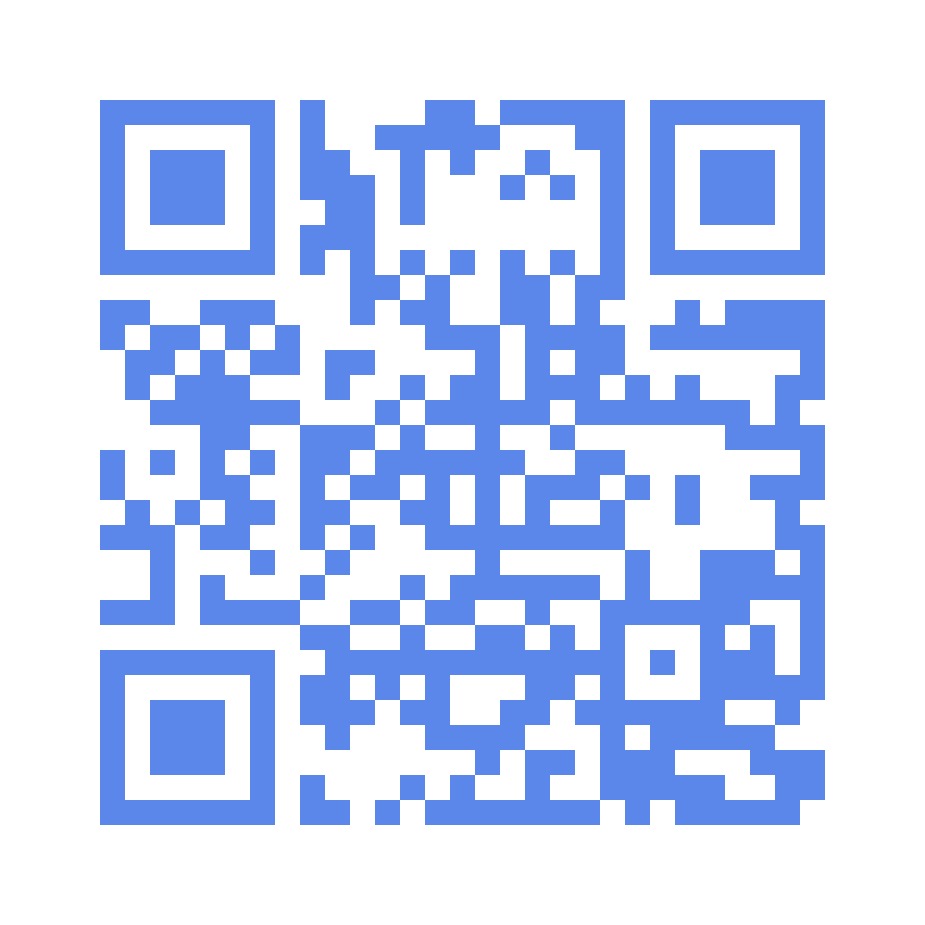
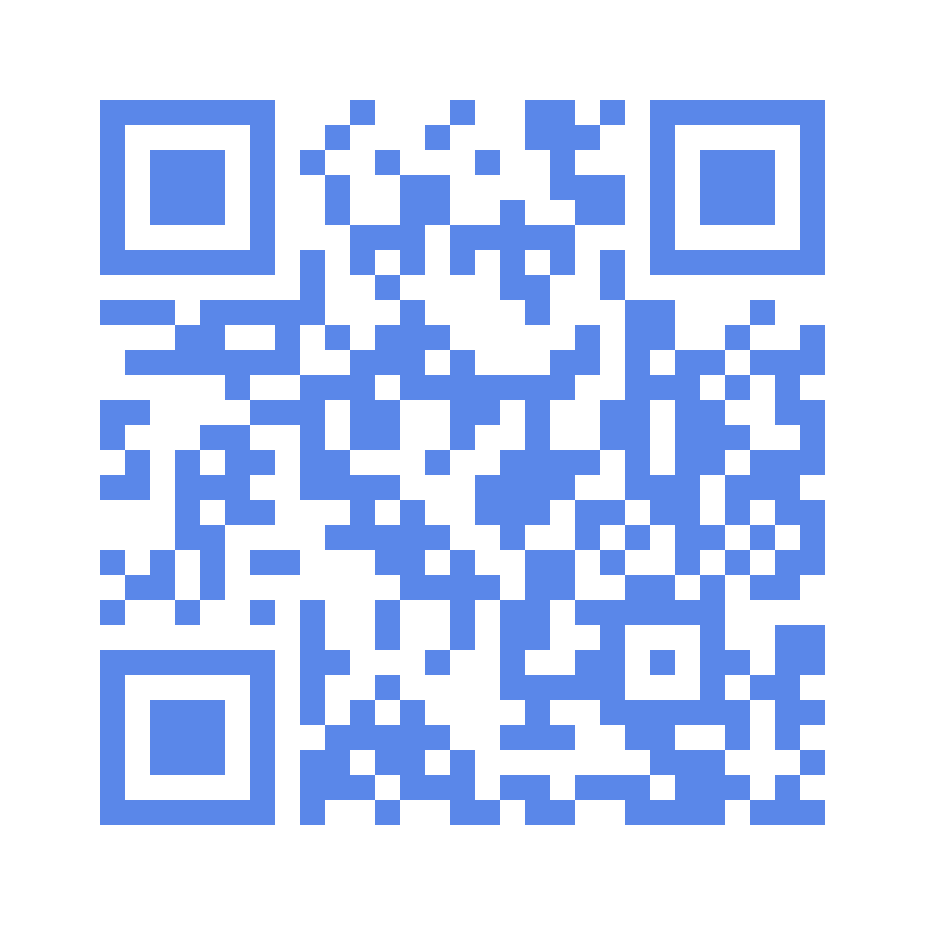
v0.8
Temporary navigator functionality.

Changed region(s): [[0.0908, 0.0908, 0.9081, 0.9081]]

diff --git a/templates/client.html b/templates/client.html
@@ -62,7 +62,7 @@
           </div>
           <h2 class="text-blackish"><b>Услуги</b></h2>
           <div class="carousel" data-flickity='{ "freeScroll": true, "pageDots": false, "prevNextButtons": false, "contain": true, "cellAlign": "left"}'>
-            <div class="carousel-cell a-button-grey-blue" onclick="load({type: 'П', room: '1-193А'})" style="width: 150px; height: 72px">
+            <div class="carousel-cell a-button-grey-blue" onclick="load({type: 'П', room: '1-143А'})" style="width: 150px; height: 72px">
               <img class="search-icon a-margin-8" src="../static/img/icons/shuffle.svg" alt="Стрелки" width="24" height="24" /><br />
               <h4 class="w3-bottom a-margin-8">Перевод / восст.</h4>
             </div>
@@ -77,11 +77,11 @@
           </div>
           <h2 class="text-blackish"><b>Консультации</b></h2>
           <div class="carousel" data-flickity='{ "freeScroll": true, "pageDots": false, "prevNextButtons": false, "contain": true, "cellAlign": "left"}'>
-            <div class="carousel-cell a-button-grey-blue" onclick="load({type: 'Т', room: '1-177'})" style="width: 150px; height: 72px">
+            <div class="carousel-cell a-button-grey-blue" onclick="load({type: 'Т', room: '1-105'})" style="width: 150px; height: 72px">
               <img class="search-icon a-margin-8" src="../static/img/icons/user.svg" alt="Человек" width="24" height="24" /><br />
               <h4 class="w3-bottom a-margin-8">Т-Университет</h4>
             </div>
-            <div class="carousel-cell a-button-grey-blue" onclick="load({type: 'Х', room: '1-177'});" style="width: 150px; height: 72px">
+            <div class="carousel-cell a-button-grey-blue" onclick="load({type: 'Х', room: '1-105'});" style="width: 150px; height: 72px">
               <img class="search-icon a-margin-8" src="../static/img/icons/grid.svg" alt="КБ" width="24" height="24" /><br />
               <h4 class="w3-bottom a-margin-8">Школа Х</h4>
             </div>
@@ -92,7 +92,7 @@
           </div>
           <br />
           <div class="carousel" data-flickity='{ "freeScroll": true, "pageDots": false, "prevNextButtons": false, "contain": true, "cellAlign": "center"}'>
-            <div class="carousel-cell a-button-grey-blue" onclick="load({type: 'Т', room: '1-177'})" style="width: 320px; height: 36px">
+            <div class="carousel-cell a-button-grey-blue" onclick="load({type: 'Ч', room: '1-113'})" style="width: 320px; height: 36px">
               <h4 class="w3-center a-margin-8">I'm a foreigner</h4>
             </div>
           </div>
@@ -127,7 +127,7 @@
           <br />
           <h2 class="text-blackish"><b>Услуги</b></h2>
           <div class="carousel" data-flickity='{ "draggable": false, "pageDots": false, "prevNextButtons": false, "contain": true, "cellAlign": "center"}'>
-            <div class="carousel-cell a-button-grey-blue a-button-grey-blue-hover" onclick="load({type: 'П', room: '1-193А'})" style="width: 30vw; height: 12.5vh">
+            <div class="carousel-cell a-button-grey-blue a-button-grey-blue-hover" onclick="load({type: 'П', room: '1-143А'})" style="width: 30vw; height: 12.5vh">
               <img class="search-icon a-margin-16" src="../static/img/icons/shuffle.svg" alt="Стрелки" width="24" height="24" /><br />
               <h3 class="w3-bottom a-margin-16">Перевод / восст.</h3>
             </div>
@@ -144,11 +144,11 @@
           <br />
           <h2 class="text-blackish"><b>Консультации</b></h2>
           <div class="carousel" data-flickity='{ "draggable": false, "pageDots": false, "prevNextButtons": false, "contain": true, "cellAlign": "center"}'>
-            <div class="carousel-cell a-button-grey-blue a-button-grey-blue-hover" onclick="load({type: 'Т', room: '1-177'})" style="width: 30vw; height: 12.5vh">
+            <div class="carousel-cell a-button-grey-blue a-button-grey-blue-hover" onclick="load({type: 'Т', room: '1-105'})" style="width: 30vw; height: 12.5vh">
               <img class="search-icon a-margin-16" src="../static/img/icons/user.svg" alt="Человек" width="24" height="24" /><br />
               <h3 class="w3-bottom a-margin-16">Т-Университет</h3>
             </div>
-            <div class="carousel-cell a-button-grey-blue a-button-grey-blue-hover" onclick="load({type: 'Х', room: '1-177'})" style="width: 30vw; height: 12.5vh">
+            <div class="carousel-cell a-button-grey-blue a-button-grey-blue-hover" onclick="load({type: 'Х', room: '1-105'})" style="width: 30vw; height: 12.5vh">
               <img class="search-icon a-margin-16" src="../static/img/icons/grid.svg" alt="КБ" width="24" height="24" /><br />
               <h3 class="w3-bottom a-margin-16">Школа Х</h3>
             </div>
@@ -159,11 +159,11 @@
           </div>
           <br />
           <div class="carousel" data-flickity='{ "draggable": false, "pageDots": false, "prevNextButtons": false, "contain": true, "cellAlign": "center"}'>
-            <div class="carousel-cell a-hider" onclick="load({type: 'Т', room: '1-177'})" style="width: 30vw; height: 8vh"></div>
-            <div class="carousel-cell a-button-grey-blue a-button-grey-blue-hover" onclick="load({type: 'Х', room: '1-177'})" style="width: 30vw; height: 6vh">
+            <div class="carousel-cell a-hider" style="width: 30vw; height: 8vh"></div>
+            <div class="carousel-cell a-button-grey-blue a-button-grey-blue-hover" onclick="load({type: 'Ч', room: '1-113'})" style="width: 30vw; height: 6vh">
               <h3 class="w3-center a-margin-8">I'm a foreigner</h3>
             </div>
-            <div class="carousel-cell a-hider" onclick="load({type: 'Ш', room: '1-130'})" style="width: 30vw; height: 6vh"></div>
+            <div class="carousel-cell a-hider" style="width: 30vw; height: 6vh"></div>
           </div>
         </div>
       </div>
@@ -249,7 +249,7 @@
               <span onclick="document.getElementById('bach_build').style.display='none'" class="w3-button w3-round-xlarge w3-display-topright" title="Close Modal">&times;</span>
             </div>
             <div class="w3-container w3-margin">
-              <h3>КСтроительство, архитектура</h3>
+              <h3>Строительство, архитектура</h3>
               <br />
               07.00.00 Архитектура<br />
               08.00.00 Техника и технологии строительства<br />
@@ -262,10 +262,10 @@
             <br />
             <form method="post">
               <input type="text" name="type" value="A" style="display: none" />
-              <input type="text" name="room" value="1-171" style="display: none" />
+              <input type="text" name="room" value="1-105" style="display: none" />
               <button class="w3-button w3-display-bottomleft w3-padding-16 a-button-grey-blue w3-margin-bottom w3-margin w3-block w3-round-xlarge a-button-grey-blue-hover" name="button" type="submit" style="width: 45%" align="center" onclick="location.href='/ticket';">Бюджет</button>
               <input type="text" name="type" value="A" style="display: none" />
-              <input type="text" name="room" value="1-171" style="display: none" />
+              <input type="text" name="room" value="1-105" style="display: none" />
               <button class="w3-button w3-display-bottomright w3-padding-16 a-button-grey-blue w3-margin-bottom w3-margin w3-round-xlarge a-button-grey-blue-hover" name="button" type="submit" style="width: 45%" align="center" onclick="location.href='/ticket';">Коммерция</button>
             </form>
           </div>
@@ -292,10 +292,10 @@
             <br />
             <form method="post">
               <input type="text" name="type" value="И" style="display: none" />
-              <input type="text" name="room" value="1-161" style="display: none" />
+              <input type="text" name="room" value="1-149" style="display: none" />
               <button class="w3-button w3-display-bottomleft w3-padding-16 a-button-grey-blue w3-margin-bottom w3-margin w3-block w3-round-xlarge a-button-grey-blue-hover" name="button" type="submit" style="width: 45%" align="center" onclick="location.href='/ticket';">Бюджет</button>
               <input type="text" name="type" value="И" style="display: none" />
-              <input type="text" name="room" value="1-161" style="display: none" />
+              <input type="text" name="room" value="1-149" style="display: none" />
               <button class="w3-button w3-display-bottomright w3-padding-16 a-button-grey-blue w3-margin-bottom w3-margin w3-round-xlarge a-button-grey-blue-hover" name="button" type="submit" style="width: 45%" align="center" onclick="location.href='/ticket';">Коммерция</button>
             </form>
           </div>
@@ -321,10 +321,10 @@
             <br />
             <form method="post">
               <input type="text" name="type" value="Б" style="display: none" />
-              <input type="text" name="room" value="1-161" style="display: none" />
+              <input type="text" name="room" value="1-149" style="display: none" />
               <button class="w3-button w3-display-bottomleft w3-padding-16 a-button-grey-blue w3-margin-bottom w3-margin w3-block w3-round-xlarge a-button-grey-blue-hover" name="button" type="submit" style="width: 45%" align="center" onclick="location.href='/ticket';">Бюджет</button>
               <input type="text" name="type" value="Б" style="display: none" />
-              <input type="text" name="room" value="1-161" style="display: none" />
+              <input type="text" name="room" value="1-149" style="display: none" />
               <button class="w3-button w3-display-bottomright w3-padding-16 a-button-grey-blue w3-margin-bottom w3-margin w3-round-xlarge a-button-grey-blue-hover" name="button" type="submit" style="width: 45%" align="center" onclick="location.href='/ticket';">Коммерция</button>
             </form>
           </div>
@@ -351,10 +351,10 @@
             <br />
             <form method="post">
               <input type="text" name="type" value="Д" style="display: none" />
-              <input type="text" name="room" value="1-193Б" style="display: none" />
+              <input type="text" name="room" value="1-143" style="display: none" />
               <button class="w3-button w3-display-bottomleft w3-padding-16 a-button-grey-blue w3-margin-bottom w3-margin w3-block w3-round-xlarge a-button-grey-blue-hover" name="button" type="submit" style="width: 45%" align="center" onclick="location.href='/ticket';">Бюджет</button>
               <input type="text" name="type" value="Д" style="display: none" />
-              <input type="text" name="room" value="1-193Б" style="display: none" />
+              <input type="text" name="room" value="1-143" style="display: none" />
               <button class="w3-button w3-display-bottomright w3-padding-16 a-button-grey-blue w3-margin-bottom w3-margin w3-round-xlarge a-button-grey-blue-hover" name="button" type="submit" style="width: 45%" align="center" onclick="location.href='/ticket';">Коммерция</button>
             </form>
           </div>
@@ -380,10 +380,10 @@
             <br />
             <form method="post">
               <input type="text" name="type" value="Э" style="display: none" />
-              <input type="text" name="room" value="1-177" style="display: none" />
+              <input type="text" name="room" value="1-105" style="display: none" />
               <button class="w3-button w3-display-bottomleft w3-padding-16 a-button-grey-blue w3-margin-bottom w3-margin w3-block w3-round-xlarge a-button-grey-blue-hover" name="button" type="submit" style="width: 45%" align="center" onclick="location.href='/ticket';">Бюджет</button>
               <input type="text" name="type" value="Э" style="display: none" />
-              <input type="text" name="room" value="1-177" style="display: none" />
+              <input type="text" name="room" value="1-105" style="display: none" />
               <button class="w3-button w3-display-bottomright w3-padding-16 a-button-grey-blue w3-margin-bottom w3-margin w3-round-xlarge a-button-grey-blue-hover" name="button" type="submit" style="width: 45%" align="center" onclick="location.href='/ticket';">Коммерция</button>
             </form>
           </div>
@@ -411,10 +411,10 @@
             <br />
             <form method="post">
               <input type="text" name="type" value="В" style="display: none" />
-              <input type="text" name="room" value="1-193" style="display: none" />
+              <input type="text" name="room" value="1-143" style="display: none" />
               <button class="w3-button w3-display-bottomleft w3-padding-16 a-button-grey-blue w3-margin-bottom w3-margin w3-block w3-round-xlarge a-button-grey-blue-hover" name="button" type="submit" style="width: 45%" align="center" onclick="location.href='/ticket';">Бюджет</button>
               <input type="text" name="type" value="В" style="display: none" />
-              <input type="text" name="room" value="1-193" style="display: none" />
+              <input type="text" name="room" value="1-143" style="display: none" />
               <button class="w3-button w3-display-bottomright w3-padding-16 a-button-grey-blue w3-margin-bottom w3-margin w3-round-xlarge a-button-grey-blue-hover" name="button" type="submit" style="width: 45%" align="center" onclick="location.href='/ticket';">Коммерция</button>
             </form>
           </div>
@@ -514,10 +514,10 @@
             <br />
             <form method="post">
               <input type="text" name="type" value="A" style="display: none" />
-              <input type="text" name="room" value="1-171" style="display: none" />
+              <input type="text" name="room" value="1-105" style="display: none" />
               <button class="w3-button w3-display-bottomleft w3-padding-16 a-button-grey-blue w3-margin-bottom w3-margin w3-block w3-round-xlarge a-button-grey-blue-hover" name="button" type="submit" style="width: 45%" align="center" onclick="location.href='/ticket';">Бюджет</button>
               <input type="text" name="type" value="A" style="display: none" />
-              <input type="text" name="room" value="1-171" style="display: none" />
+              <input type="text" name="room" value="1-105" style="display: none" />
               <button class="w3-button w3-display-bottomright w3-padding-16 a-button-grey-blue w3-margin-bottom w3-margin w3-block w3-round-xlarge a-button-grey-blue-hover" name="button" type="submit" style="width: 45%" align="center" onclick="location.href='/ticket';">Коммерция</button>
             </form>
           </div>
@@ -544,10 +544,10 @@
             <br />
             <form method="post">
               <input type="text" name="type" value="И" style="display: none" />
-              <input type="text" name="room" value="1-161" style="display: none" />
+              <input type="text" name="room" value="1-149" style="display: none" />
               <button class="w3-button w3-display-bottomleft w3-padding-16 a-button-grey-blue w3-margin-bottom w3-margin w3-block w3-round-xlarge a-button-grey-blue-hover" name="button" type="submit" style="width: 45%" align="center" onclick="location.href='/ticket';">Бюджет</button>
               <input type="text" name="type" value="И" style="display: none" />
-              <input type="text" name="room" value="1-161" style="display: none" />
+              <input type="text" name="room" value="1-149" style="display: none" />
               <button class="w3-button w3-display-bottomright w3-padding-16 a-button-grey-blue w3-margin-bottom w3-margin w3-round-xlarge a-button-grey-blue-hover" name="button" type="submit" style="width: 45%" align="center" onclick="location.href='/ticket';">Коммерция</button>
             </form>
           </div>
@@ -573,10 +573,10 @@
             <br />
             <form method="post">
               <input type="text" name="type" value="Б" style="display: none" />
-              <input type="text" name="room" value="1-161" style="display: none" />
+              <input type="text" name="room" value="1-149" style="display: none" />
               <button class="w3-button w3-display-bottomleft w3-padding-16 a-button-grey-blue w3-margin-bottom w3-margin w3-block w3-round-xlarge a-button-grey-blue-hover" name="button" type="submit" style="width: 45%" align="center" onclick="location.href='/ticket';">Бюджет</button>
               <input type="text" name="type" value="Б" style="display: none" />
-              <input type="text" name="room" value="1-161" style="display: none" />
+              <input type="text" name="room" value="1-149" style="display: none" />
               <button class="w3-button w3-display-bottomright w3-padding-16 a-button-grey-blue w3-margin-bottom w3-margin w3-block w3-round-xlarge a-button-grey-blue-hover" name="button" type="submit" style="width: 45%" align="center" onclick="location.href='/ticket';">Коммерция</button>
             </form>
           </div>
@@ -603,10 +603,10 @@
             <br />
             <form method="post">
               <input type="text" name="type" value="Д" style="display: none" />
-              <input type="text" name="room" value="1-193Б" style="display: none" />
+              <input type="text" name="room" value="1-143" style="display: none" />
               <button class="w3-button w3-display-bottomleft w3-padding-16 a-button-grey-blue w3-margin-bottom w3-margin w3-block w3-round-xlarge a-button-grey-blue-hover" name="button" type="submit" style="width: 45%" align="center" onclick="location.href='/ticket';">Бюджет</button>
               <input type="text" name="type" value="Д" style="display: none" />
-              <input type="text" name="room" value="1-193Б" style="display: none" />
+              <input type="text" name="room" value="1-143" style="display: none" />
               <button class="w3-button w3-display-bottomright w3-padding-16 a-button-grey-blue w3-margin-bottom w3-margin w3-round-xlarge a-button-grey-blue-hover" name="button" type="submit" style="width: 45%" align="center" onclick="location.href='/ticket';">Коммерция</button>
             </form>
           </div>
@@ -632,10 +632,10 @@
             <br />
             <form method="post">
               <input type="text" name="type" value="Э" style="display: none" />
-              <input type="text" name="room" value="1-177" style="display: none" />
+              <input type="text" name="room" value="1-105" style="display: none" />
               <button class="w3-button w3-display-bottomleft w3-padding-16 a-button-grey-blue w3-margin-bottom w3-margin w3-block w3-round-xlarge a-button-grey-blue-hover" name="button" type="submit" style="width: 45%" align="center" onclick="location.href='/ticket';">Бюджет</button>
               <input type="text" name="type" value="Э" style="display: none" />
-              <input type="text" name="room" value="1-177" style="display: none" />
+              <input type="text" name="room" value="1-105" style="display: none" />
               <button class="w3-button w3-display-bottomright w3-padding-16 a-button-grey-blue w3-margin-bottom w3-margin w3-round-xlarge a-button-grey-blue-hover" name="button" type="submit" style="width: 45%" align="center" onclick="location.href='/ticket';">Коммерция</button>
             </form>
           </div>
@@ -663,10 +663,10 @@
             <br />
             <form method="post">
               <input type="text" name="type" value="В" style="display: none" />
-              <input type="text" name="room" value="1-193" style="display: none" />
+              <input type="text" name="room" value="1-143" style="display: none" />
               <button class="w3-button w3-display-bottomleft w3-padding-16 a-button-grey-blue w3-margin-bottom w3-margin w3-block w3-round-xlarge a-button-grey-blue-hover" name="button" type="submit" style="width: 45%" align="center" onclick="location.href='/ticket';">Бюджет</button>
               <input type="text" name="type" value="В" style="display: none" />
-              <input type="text" name="room" value="1-193" style="display: none" />
+              <input type="text" name="room" value="1-143" style="display: none" />
               <button class="w3-button w3-display-bottomright w3-padding-16 a-button-grey-blue w3-margin-bottom w3-margin w3-round-xlarge a-button-grey-blue-hover" name="button" type="submit" style="width: 45%" align="center" onclick="location.href='/ticket';">Коммерция</button>
             </form>
           </div>
@@ -688,21 +688,21 @@
         <div class="w3-container w3-margin-top w3-margin-bottom w3-display-bottommiddle" style="width: 100%">
           <form method="post">
             <input type="text" name="type" value="К" style="display: none" />
-            <input type="text" name="room" value="1-193" style="display: none" />
+            <input type="text" name="room" value="1-143" style="display: none" />
             <button class="w3-button w3-padding-16 a-button-grey-blue w3-margin-top w3-block w3-round-xlarge a-button-grey-blue-hover" name="button" type="submit" onclick="location.href='/ticket';">
               <img class="search-icon" src="../static/img/icons/feather.svg" alt="Перо" width="20" height="20" align="left" style="margin-right: 10px" />Авиастроительный колледж
             </button>
           </form>
           <form method="post">
             <input type="text" name="type" value="К" style="display: none" />
-            <input type="text" name="room" value="1-193" style="display: none" />
+            <input type="text" name="room" value="1-143" style="display: none" />
             <button class="w3-button w3-padding-16 a-button-grey-blue w3-margin-top w3-block w3-round-xlarge a-button-grey-blue-hover" name="button" type="submit" onclick="location.href='/ticket';">
               <img class="search-icon" src="../static/img/icons/feather.svg" alt="Перо" width="20" height="20" align="left" style="margin-right: 10px" />КЭУиП
             </button>
           </form>
           <form method="post">
             <input type="text" name="type" value="К" style="display: none" />
-            <input type="text" name="room" value="1-193" style="display: none" />
+            <input type="text" name="room" value="1-143" style="display: none" />
             <button class="w3-button w3-padding-16 a-button-grey-blue w3-margin-top w3-block w3-round-xlarge a-button-grey-blue-hover" name="button" type="submit" onclick="location.href='/ticket';">
               <img class="search-icon" src="../static/img/icons/feather.svg" alt="Перо" width="20" height="20" align="left" style="margin-right: 10px" />IThub
             </button>
@@ -725,21 +725,21 @@
         <div class="w3-container w3-margin-top w3-margin-bottom w3-display-bottommiddle" style="width: 100%">
           <form method="post">
             <input type="text" name="type" value="К" style="display: none" />
-            <input type="text" name="room" value="1-193" style="display: none" />
+            <input type="text" name="room" value="1-143" style="display: none" />
             <button class="w3-button w3-padding-16 a-button-grey-blue w3-margin-top w3-block w3-round-xlarge a-button-grey-blue-hover" name="button" type="submit" onclick="location.href='/ticket';">
               <img class="search-icon" src="../static/img/icons/feather.svg" alt="Перо" width="20" height="20" align="left" style="margin-right: 10px" />Авиастроительный колледж
             </button>
           </form>
           <form method="post">
             <input type="text" name="type" value="К" style="display: none" />
-            <input type="text" name="room" value="1-193" style="display: none" />
+            <input type="text" name="room" value="1-143" style="display: none" />
             <button class="w3-button w3-padding-16 a-button-grey-blue w3-margin-top w3-block w3-round-xlarge a-button-grey-blue-hover" name="button" type="submit" onclick="location.href='/ticket';">
               <img class="search-icon" src="../static/img/icons/feather.svg" alt="Перо" width="20" height="20" align="left" style="margin-right: 10px" />Колледж экономики, управления и права
             </button>
           </form>
           <form method="post">
             <input type="text" name="type" value="К" style="display: none" />
-            <input type="text" name="room" value="1-193" style="display: none" />
+            <input type="text" name="room" value="1-143" style="display: none" />
             <button class="w3-button w3-padding-16 a-button-grey-blue w3-margin-top w3-block w3-round-xlarge a-button-grey-blue-hover" name="button" type="submit" onclick="location.href='/ticket';">
               <img class="search-icon" src="../static/img/icons/feather.svg" alt="Перо" width="20" height="20" align="left" style="margin-right: 10px" />IThub
             </button>

diff --git a/templates/screen.html b/templates/screen.html
@@ -3,7 +3,7 @@
   <head>
     <meta charset="utf-8" />
     <meta name="viewport" content="width=device-width, initial-scale=1.0" />
-    <!--<meta http-equiv="refresh" content="3" />-->
+    <meta http-equiv="refresh" content="5" />
     <title>СУО ДГТУ: Табло</title>
     <link rel="stylesheet" type="text/css" href="../static/css/w3pro.css" />
     <link rel="stylesheet" type="text/css" href="../static/css/additionals.css" />
@@ -38,7 +38,7 @@
         </th>
       </tr>
       <tr>
-        <td><h1>{% if not tickets: %} Талонов нет {% else: %} {{ tickets[0].type }}-{{'{:03}'.format(tickets[0].id) }} {% endif %}</h1></td>
+        <td><h1>{% if not tickets: %} Талонов нет {% else: %} {{ tickets[0].type }}-{{'{:03}'.format(tickets[0].id) }}/1 {% endif %}</h1></td>
         <td><h1>{% if not tickets: %} {% else: %} {{ tickets[0].room }} {% endif %}</h1></td>
       </tr>
     </table>
@@ -59,7 +59,7 @@
       {% endfor %}
     </table>
     <script>
-      const milliseconds = 1000;
+      const milliseconds = 10;
       setInterval(() => {
         var date = new Date();
         var current_date = date.getDate() + "." + date.getMonth() + "." + date.getFullYear();

diff --git a/templates/ticket.html b/templates/ticket.html
@@ -50,6 +50,9 @@
           <div class="w3-bar-item w3-round w3-padding-8 a-light-grey w3-block w3-round-large w3-right" style="width: 48%">Статус билета:<br /><b id="number">{% if tickets.status == True: %} Активен {% else: %} Закрыт {% endif %}</b></div>
         </div>
         <div class="w3-container w3-margin-top w3-margin-bottom w3-display-bottommiddle" style="width: 100%">
+          <button class="w3-button w3-padding-16 a-button-grey-blue w3-margin-top w3-round-large w3-block" name="button" onclick="location.href='https://dstu.online/navigator?location=14$destination={{ nav }}';">
+            <b>Показать путь</b>
+          </button>
           <button class="w3-button w3-padding-16 a-button-grey-blue w3-margin-top w3-round-large w3-block" name="button" onclick="location.href='/client';">
             <b>Отменить запись</b>
           </button>

diff --git a/main.py b/main.py
@@ -22,6 +22,28 @@ admin_login = "admin"
 oper_login = "oper"
 volunteer_login = "volunteer"
 admin_password = "password"
+room_id = {
+    '1-102': 1,
+    '1-105': 2,
+    '1-106': 3,
+    '1-109': 4,
+    '1-110': 5,
+    '1-113': 6,
+    '1-123': 7,
+    '1-127': 8,
+    '1-130': 9,
+    '1-140': 10,
+    '1-143': 11,
+    '1-143а': 12,
+    '1-149': 13,
+    '1-161': 17,
+    '1-165': 18,
+    '1-177': 19,
+    '1-186Б': 20,
+    '1-193Б': 21,
+    '1-193А': 22,
+    '1-193': 23,
+}
 
 
 @app.route('/')
@@ -113,13 +135,13 @@ def client():
                 box_size=25,
                 border=4,
             )
-            code = "http://192.168.50.186:2554/ticket?val=" + str(db_output[-1].counter - 1)
+            code = "" + request.base_url[:-7] + "/ticket?val=" + str(db_output[-1].counter - 1)
             qr.add_data(code)
             qr.make(fit=True)
 
             img = qr.make_image(fill_color=(90,135,233), back_color=(255,255,255))
             img.save("static/ticketQR.png", "PNG")
-            return render_template("ticket.html", tickets=db_output[-1], val=db_output[-1].counter)
+            return render_template("ticket.html", tickets=db_output[-1], val=db_output[-1].counter, nav=room_id[db_output[-1].room])
         except:
             return "Generation error"
     else:
@@ -134,12 +156,19 @@ def queue():
 
 @app.route('/screen')
 def screen():
+    if request.method == "POST":
+        db_output = Ticket.query.all()
+        tester = []
+        for elem in db_output:
+            if elem.status == True:
+                tester.append(elem)
+        return (tester, len(tester) - 1)
     db_output = Ticket.query.all()
     tester = []
     for elem in db_output:
         if elem.status == True:
             tester.append(elem)
-    return render_template("screen.html", tickets=tester, temp=len(tester)-1)
+    return render_template("screen.html", tickets=tester, temp=len(tester))
 
 
 @app.route('/volunteer')
